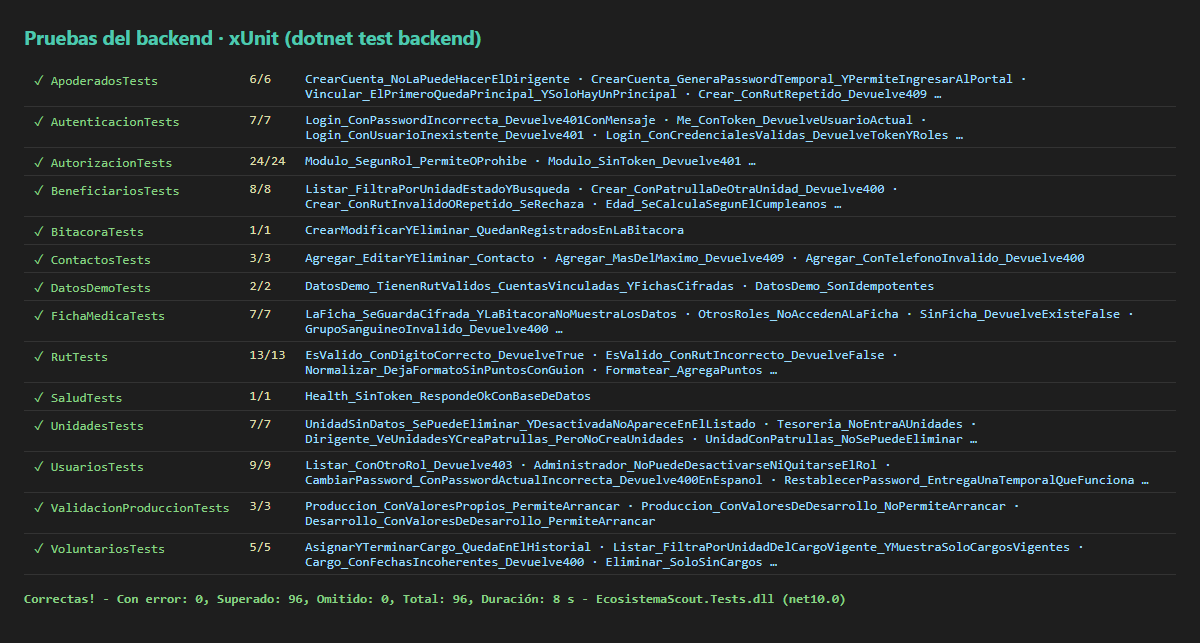
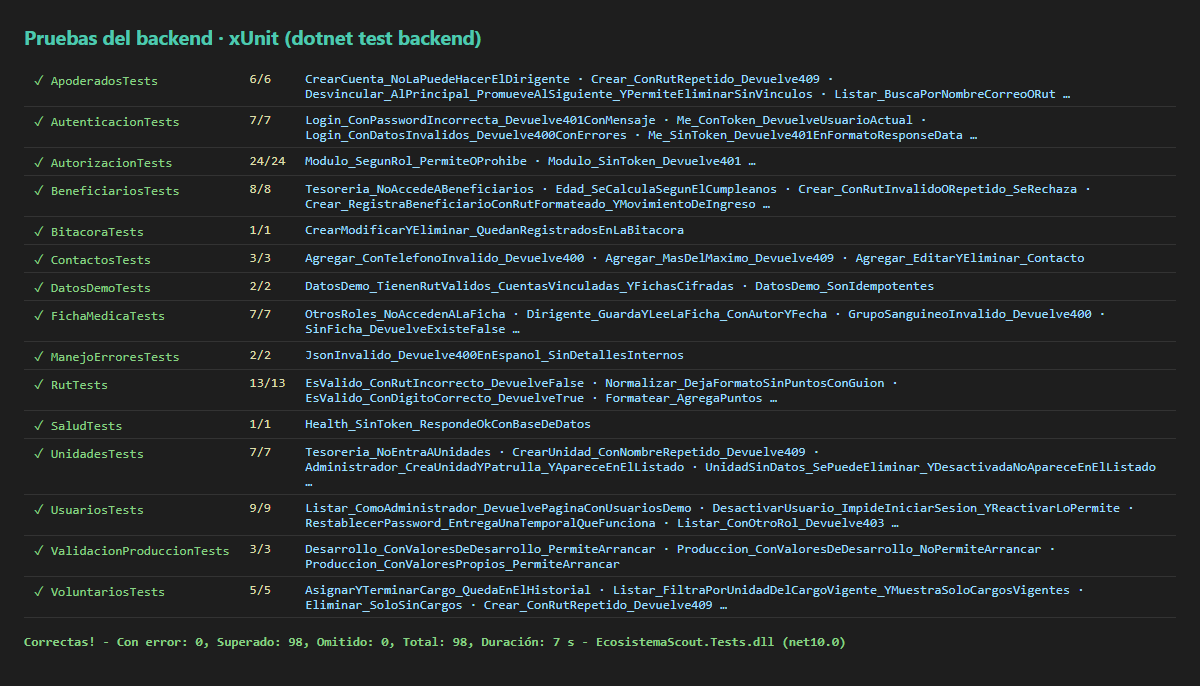
docs: actualiza la evidencia de pruebas del backend

diff --git a/docs/evidencias/miembros/README.md b/docs/evidencias/miembros/README.md
@@ -22,7 +22,7 @@ Capturas tomadas el 27-11-2026 con el sistema corriendo en Docker (`docker compo
 | `16-dirigente-unidades.png` | El dirigente ve las unidades y agrega patrullas, pero no crea unidades |
 | `17-celular-beneficiarios.png` | Listado en celular, en tarjetas |
 | `18-celular-ficha.png` | Ficha del beneficiario en celular |
-| `19-pruebas-backend.png` | 96 pruebas xUnit correctas |
+| `19-pruebas-backend.png` | 98 pruebas xUnit correctas |
 | `20-pruebas-frontend.png` | 32 pruebas Vitest correctas |
 | `21-usuarios-listado.png` | Administración de usuarios: búsqueda, filtros y acciones |
 | `22-usuario-nuevo.png` | Creación de un usuario con contraseña temporal |
